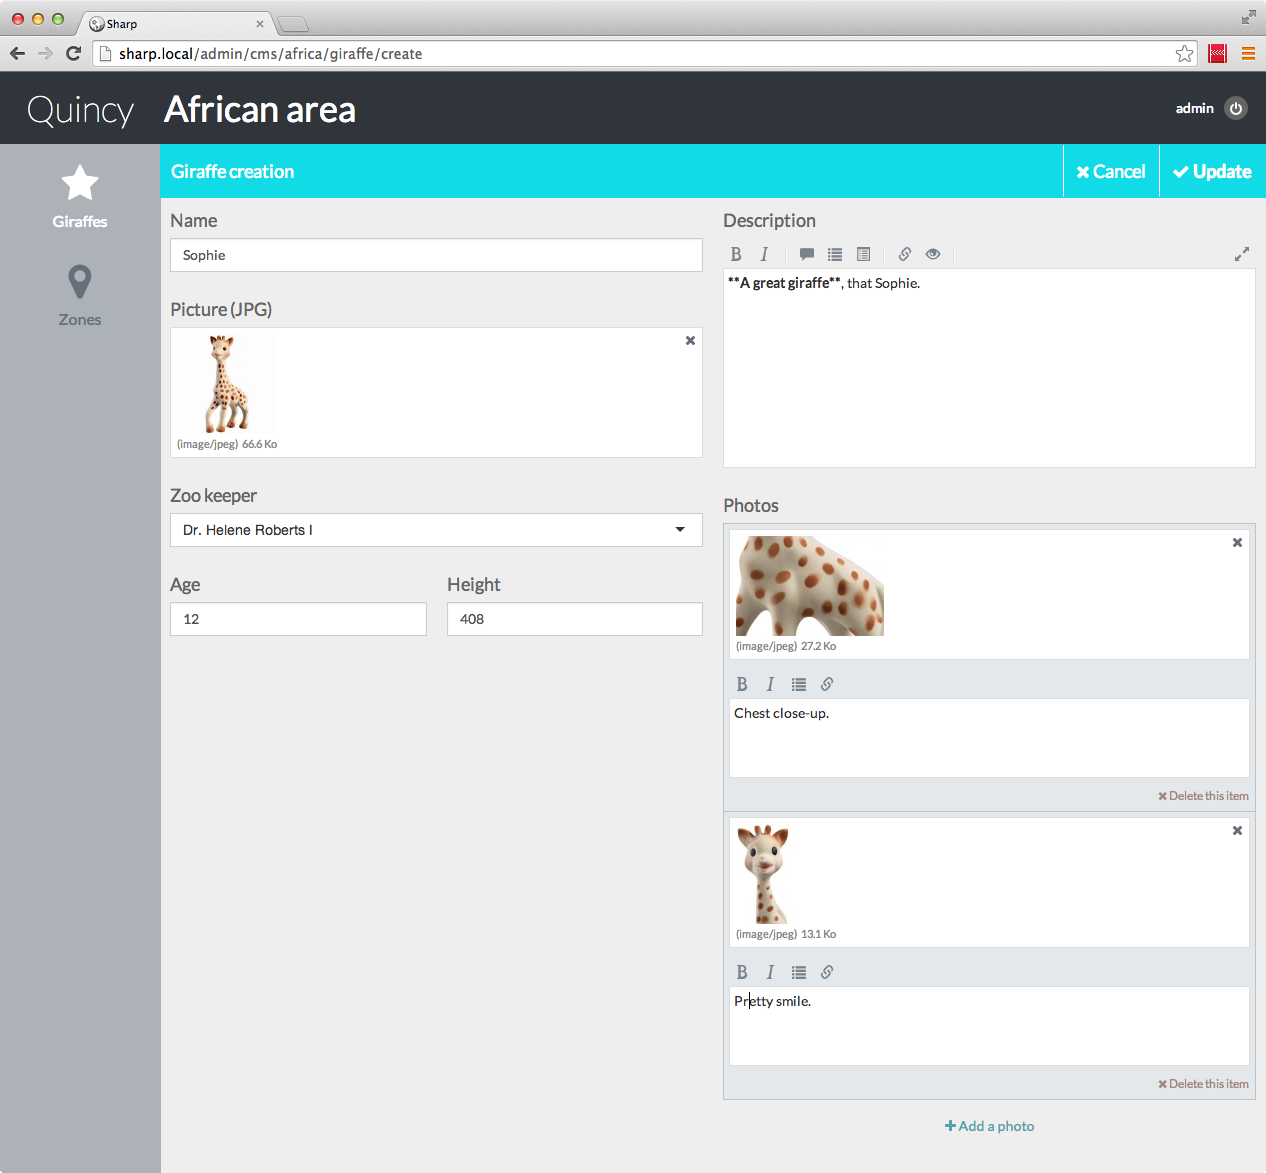
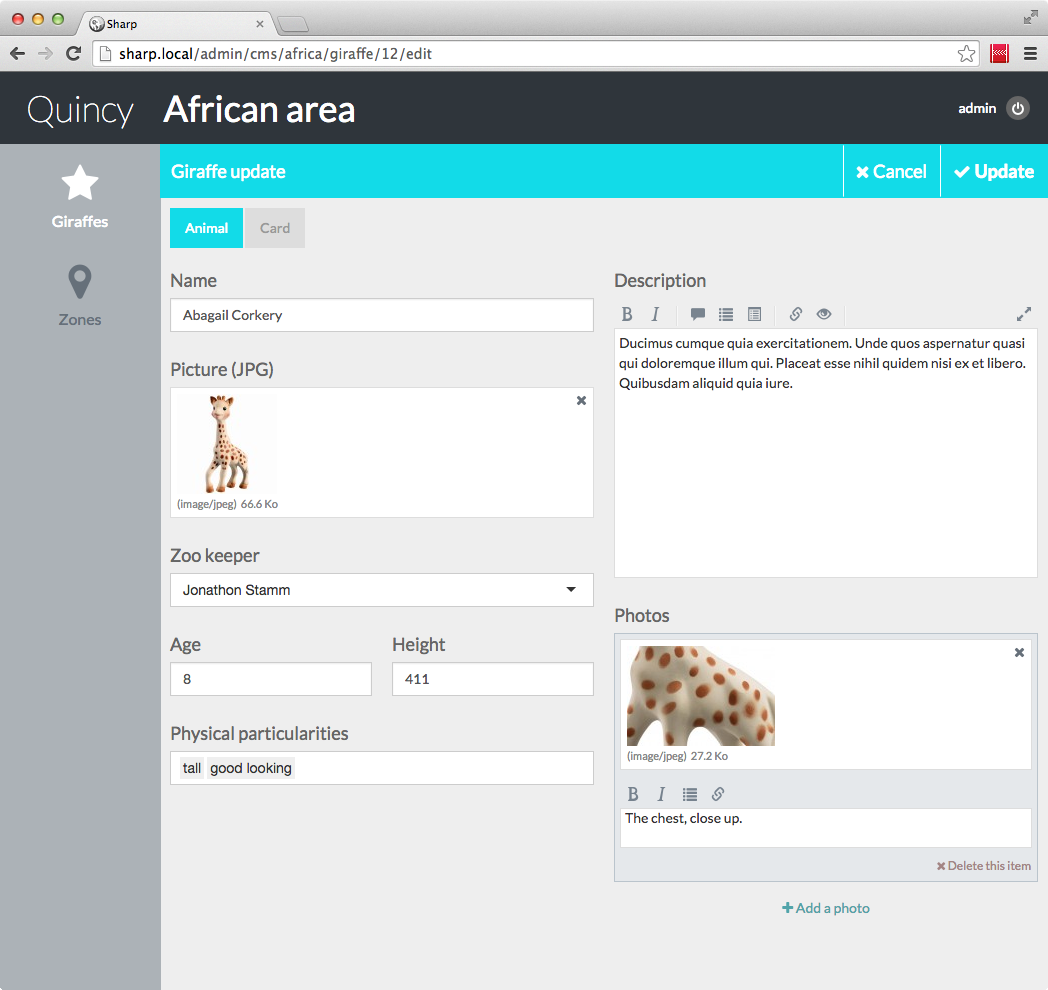
documentation

diff --git a/docs/entity_form.md b/docs/entity_form.md
@@ -445,6 +445,49 @@ The tag field is now complete. The rendering is done with the [selectize.js plug
 
 ##<a name="form-layout"></a> 2. The form layout
 
+Maybe you noticed that the config file contains a second form-related attribute. That's `form_layout`:
+
+```
+"form_layout" => [
+	"tab1" => [
+		"tab" => "",
+		"col1" => [
+			"name",
+			"picture",
+			"zookeeper_id",
+			"age",
+			"height",
+			"particularities"
+		],
+		"col2" => [
+			"desc",
+			"photos"
+		]
+	],
+	"tab2" => [
+		"tab" => "Card",
+		"col1" => [
+			"card~number",
+			"card~origin",
+			"card~origin_zoo",
+			"card~origin_country"
+		],
+		"col2" => []
+	]
+]
+```
+
+This config part indicate how to organize the form, by embedding the fields in tabs and cols. Let's dig in:
+
+- first there's tabs. Keys are irrelevant ("tab1" here), they just need to be unique. You can define several tabs, and the result will be a form split in pages (see screenshot below). The "tab" attribute is meant to set the tab label: in a single tab case, you don't need it.
+- then come columns: unlike tabs, you must always define 2 of them.
+
+With the config above, here's the result:
+
+![](img/formview-giraffe-tabs.png)
+
+![](img/formview-giraffe-singlerelation.png)
+
 
 ##<a name="conditional"></a> 3. Conditional display (hide and show fields)
 

diff --git a/docs/auto-updater.md b/docs/auto-updater.md
@@ -1,0 +1,1 @@
+#Sharp Eloquent auto-updater
